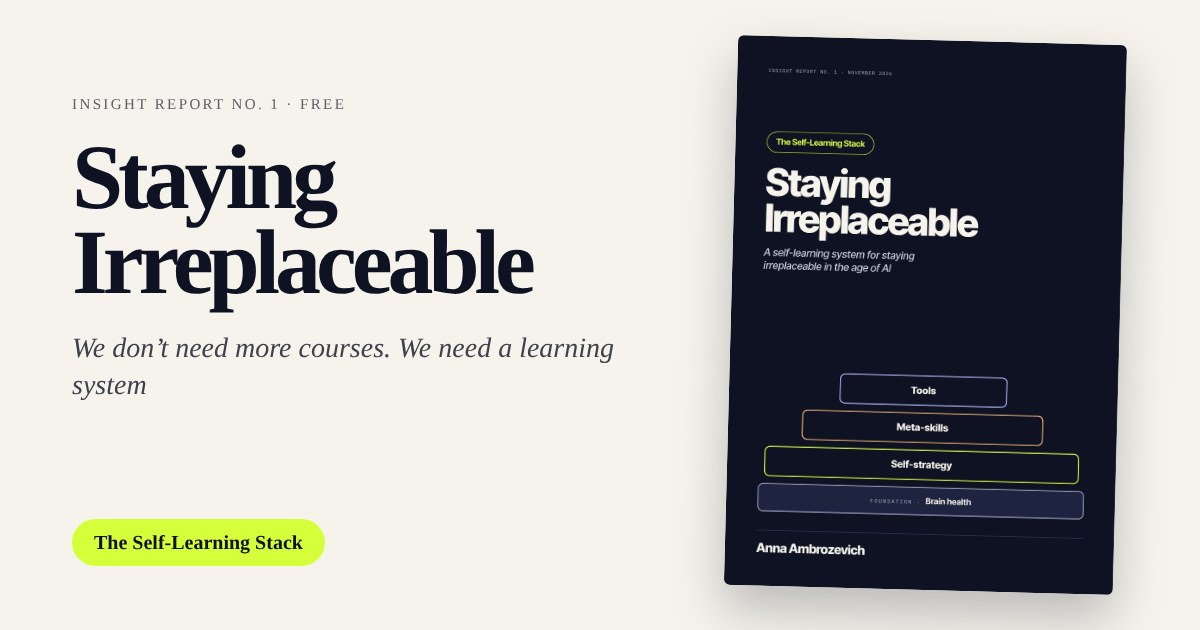
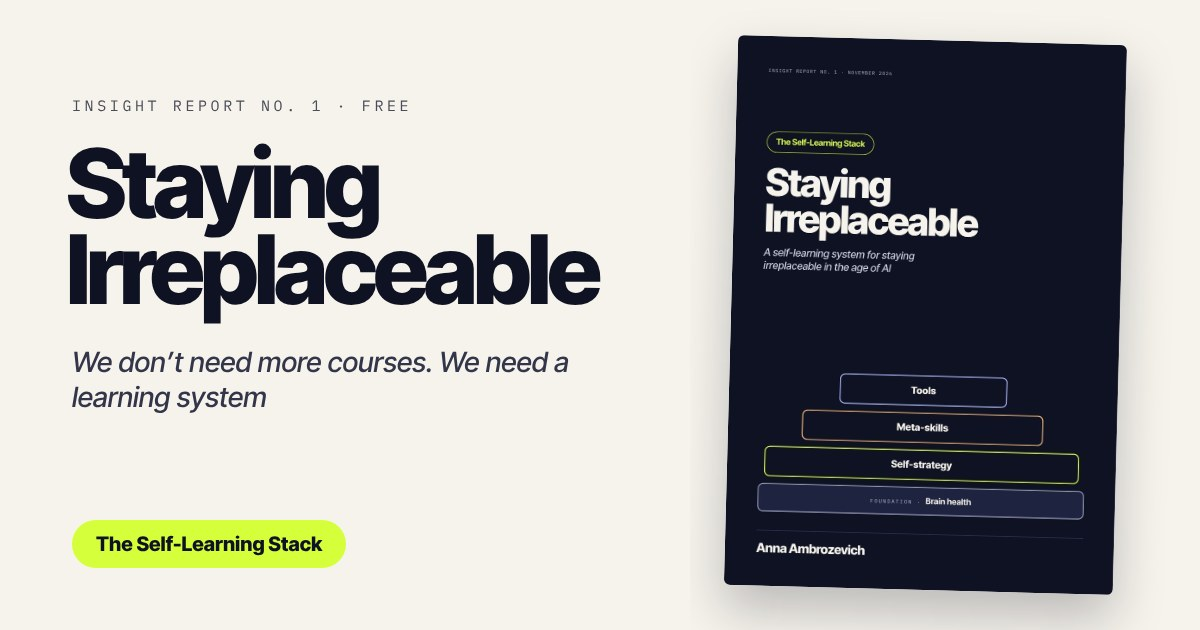
Stack link preview: re-render with brand fonts, bump cache version
Claude-Session: https://claude.ai/code/session_01G8tvaSXBmnMuzZpKsGv1oq

diff --git a/stack/index.html b/stack/index.html
@@ -10,11 +10,11 @@
 <meta property="og:type" content="website">
 <meta property="og:site_name" content="Anna Ambrozevich">
 <meta property="og:url" content="https://annaambrozevich.com/stack/">
-<meta property="og:image" content="https://annaambrozevich.com/img/og-staying-irreplaceable.jpg?v=1">
+<meta property="og:image" content="https://annaambrozevich.com/img/og-staying-irreplaceable.jpg?v=2">
 <meta property="og:image:width" content="1200">
 <meta property="og:image:height" content="630">
 <meta name="twitter:card" content="summary_large_image">
-<meta name="twitter:image" content="https://annaambrozevich.com/img/og-staying-irreplaceable.jpg?v=1">
+<meta name="twitter:image" content="https://annaambrozevich.com/img/og-staying-irreplaceable.jpg?v=2">
 <link rel="canonical" href="https://annaambrozevich.com/stack/">
 <link rel="preload" href="../fonts/inter-tight-latin-800-normal.woff2" as="font" type="font/woff2" crossorigin>
 <style>
